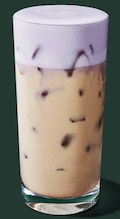
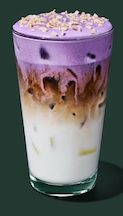
Add files via upload

diff --git a/food.html b/food.html
@@ -19,7 +19,7 @@
 		<tr>
 			<td>Bacon, Gouda & Egg Sandwich
 			<td>$5.75</td>
-			<td><img src="baconEggGoudap2.png"></td>
+			<td><img src="baconegggoudap2.png"></td>
 
 		</tr>
 
@@ -27,14 +27,14 @@
 		<tr>
 			<td>Egg, Pesto & Mozzarella Sandwich</td>
 			<td>$5.45</td>
-			<td><img src="pestoSandwich.png"></td>
+			<td><img src="pestosandwich.png"></td>
 		</tr>
 
 
 		<tr>
 			<td>Double-Smoked Bacon, Cheddar & Egg Sandwich</td>
 			<td>$5.95</td>
-			<td><img src="eggSandwich.png"></td>
+			<td><img src="eggsandwich.png"></td>
 		</tr>
 
 
@@ -52,7 +52,7 @@
 			<td>Crispy Grilled Cheese on Sourdough
 			</td>
 			<td>$6.95</td>
-			<td><img src="grilledCheese.png"></td>
+			<td><img src="grilledcheese.png"></td>
 		</tr>
 
 		<tr>
@@ -64,7 +64,7 @@
 		<tr>
 			<td>Tomato & Mozzarella on Focaccia</td>
 			<td>$7.45</td>
-			<td><img src="tomatoSandwich.png"></td>
+			<td><img src="tomatosandwich.png"></td>
 		</tr>
 
 			

diff --git a/drinks.html b/drinks.html
@@ -49,12 +49,12 @@
 
 	<tr>
 		<td>Strawberry Acai Refresher</td>
-		<td><img src="strawberryAcai3.png"></td>
+		<td><img src="strawberryacai3.png"></td>
 	</tr>
 	
 	<tr>
 		<td>Pink Drink</td>
-		<td><img src="pinkDrink.png">
+		<td><img src="pinkdrink.png">
 	</tr>
 
 	<tr>
@@ -64,12 +64,12 @@
 
 	<tr>
 		<td>Iced Matcha Latte</td>
-		<td><img src="icedMatch.png">
+		<td><img src="icedmatch.png">
 	</tr>
 
 	<tr>
 		<td>Iced Chai Latte</td>
-		<td><img src="icedChai.png">
+		<td><img src="icedchai.png">
 	</tr>
 
 

diff --git a/index.html b/index.html
@@ -1,3 +1,5 @@
+
+
 <!DOCTYPE html>
 <html>
 <head>